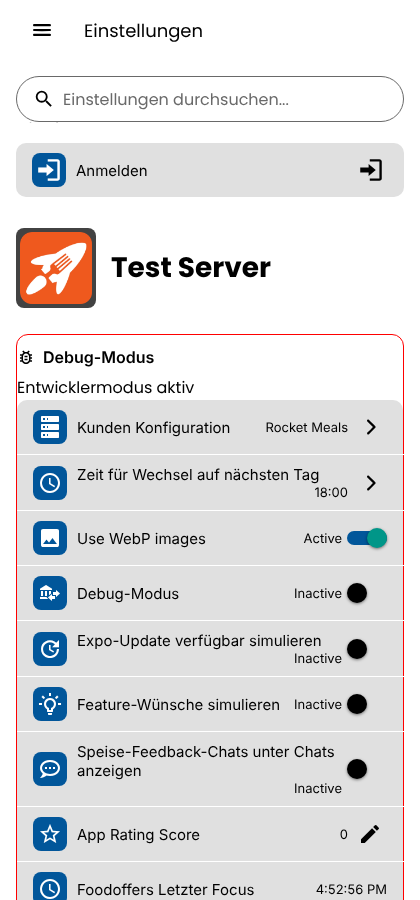
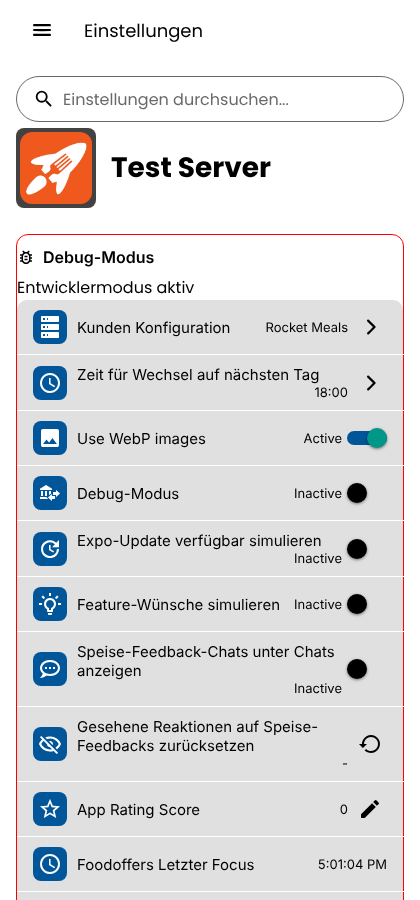
App: back from a food feedback chat goes to the own ratings, dev reset of seen reactions
- Food feedback chats are not listed under "Chats", so "back" in their chat
  now goes to the own ratings (/notification). With the dev toggle that lists
  them under "Chats", back stays at "Chats". CustomStackHeader takes an
  optional goBackTarget for this.
- Dev menu: button to reset profiles.food_feedback_reactions_seen_until, so
  the hint above the food offers shows the reactions again. Shows the current
  value.

Claude-Session: https://claude.ai/code/session_01WK1NRwzhUN6aLsBd9xx5EQ

Changed region(s): [[0.031, 0.1244, 0.9595, 1.0]]

diff --git a/apps/frontend/app/app/(app)/settings/index.tsx b/apps/frontend/app/app/(app)/settings/index.tsx
@@ -517,6 +517,22 @@ const Settings = () => {
                 });
         };
 
+        /** Debug: forgets which reactions to food feedbacks were seen, so the hint above the food offers shows them again. */
+        const foodFeedbackReactionsSeenUntil = (profile as DatabaseTypes.Profiles | undefined)?.food_feedback_reactions_seen_until ?? null;
+        const handleResetFoodFeedbackReactionsSeen = useCallback(async () => {
+                if (!profile?.id) {
+                        return;
+                }
+                dispatch({ type: UPDATE_PROFILE, payload: { ...profile, food_feedback_reactions_seen_until: null } });
+                try {
+                        await profileHelper.updateFoodFeedbackReactionsSeenUntil(profile.id, null);
+                        toast(translate(TranslationKeys.reset), 'success');
+                } catch (error) {
+                        console.error('Resetting the seen reactions to food feedbacks failed:', error);
+                        toast(translate(TranslationKeys.error), 'error');
+                }
+        }, [dispatch, profile, profileHelper, toast, translate]);
+
         const handleResetCollectibles = useCallback(() => {
                 dispatch({ type: RESET_ALL_COLLECTIBLE_EVENT_DICTS });
                 toast(translate(TranslationKeys.reset), 'success');
@@ -969,6 +985,15 @@ const Settings = () => {
 							onToggle={toggleShowFoodFeedbackChatsInChats}
 							groupPosition="middle"
 						/>
+						<SettingsList
+							iconBgColor={primaryColor}
+							leftIcon={<MaterialCommunityIcons name="eye-off-outline" size={24} color={theme.screen.icon} />}
+							label={translate(TranslationKeys.reset_food_feedback_reactions_seen)}
+							value={foodFeedbackReactionsSeenUntil ? new Date(foodFeedbackReactionsSeenUntil).toLocaleString() : '-'}
+							rightIcon={<MaterialCommunityIcons name="restore" size={24} color={theme.screen.icon} />}
+							handleFunction={() => void handleResetFoodFeedbackReactionsSeen()}
+							groupPosition="middle"
+						/>
 						<SettingsListEditable
 							key={String(appRatingScore)}
 							iconBgColor={primaryColor}
@@ -1097,7 +1122,7 @@ const Settings = () => {
 		campus_area_color, campusSortingLabel, openCampusSortingModal, handleCheckForUpdates,
 		openCollectibleSettingsModal, termsAndPrivacyConsentAcceptedDate, isManagement, dispatch,
 		serverInfo, selectedCustomerDisplayName, foodOffersNextDayThreshold, useWebpForAssets,
-		debugMode, simulateExpoUpdateAvailable, simulateFeatureWishesEnabled, showFoodFeedbackChatsInChats, openServerSheet, openFoodOffersTimeSheet,
+		debugMode, simulateExpoUpdateAvailable, simulateFeatureWishesEnabled, showFoodFeedbackChatsInChats, foodFeedbackReactionsSeenUntil, handleResetFoodFeedbackReactionsSeen, openServerSheet, openFoodOffersTimeSheet,
 		toggleWebpForAssets, toggleDebugMode, toggleSimulateExpoUpdate, toggleSimulateFeatureWishes, toggleShowFoodFeedbackChatsInChats, osmVectorMapStyleKey, osmConsent,
 		acceptedFriendsCount, showFriendsInSettings, canteenVisitsVisibilityLabel, openCanteenVisitsVisibilityModal, openFriendsModal, openAccountRequiredModal,
 		appRatingScore, openAppRatingScoreSheet, showDebugRatingModal, appRatingData,

diff --git a/apps/frontend/app/app/(app)/chats/_layout.tsx b/apps/frontend/app/app/(app)/chats/_layout.tsx
@@ -1,12 +1,14 @@
 import React from 'react';
 import { TouchableOpacity } from 'react-native';
-import { Stack, useRouter } from 'expo-router';
+import { Stack, useLocalSearchParams, useRouter } from 'expo-router';
 import { MaterialCommunityIcons } from '@expo/vector-icons';
 import CustomStackHeader from '@/components/CustomStackHeader/CustomStackHeader';
 import TranslatedMenuHeader from '@/components/CustomMenuHeader/TranslatedMenuHeader';
 import { useTheme } from '@/hooks/useTheme';
 import { useLanguage } from '@/hooks/useLanguage';
 import { TranslationKeys } from '@/locales/keys';
+import { useAppSelector } from '@/redux/hooks';
+import { AppScreens, ChatHelper } from 'repo-depkit-common';
 
 // `Stack.Screen`'s `options.header` calls this as a plain function (never as
 // a JSX tag), so a factory returning a stable function avoids defining a new
@@ -24,9 +26,15 @@ function ChatDetailsHeaderContent() {
 	const { theme } = useTheme();
 	const { translate } = useLanguage();
 	const router = useRouter();
+	const { chat_id } = useLocalSearchParams<{ chat_id?: string }>();
+	const chat = useAppSelector(state => (state.chats?.chats ?? []).find(entry => String(entry?.id) === String(chat_id)));
+	const showFoodFeedbackChatsInChats = useAppSelector(state => state.settings.showFoodFeedbackChatsInChats);
+	// The chat of a food feedback is not listed under "Chats" (see useChatUnreadStatus), so back goes to the own ratings.
+	const goBackTarget = ChatHelper.isFoodFeedbackChat(chat) && !showFoodFeedbackChatsInChats ? `/${AppScreens.NOTIFICATION}` : undefined;
 	return (
 		<CustomStackHeader
 			label={translate(TranslationKeys.chat)}
+			goBackTarget={goBackTarget}
 			rightElement={
 				<TouchableOpacity
 					onPress={() =>

diff --git a/apps/frontend/app/components/CustomStackHeader/CustomStackHeader.tsx b/apps/frontend/app/components/CustomStackHeader/CustomStackHeader.tsx
@@ -70,7 +70,7 @@ function resolveGoBackTarget(pathname: string, loggedIn: boolean, canGoBack: boo
 	return loggedIn ? `/${AppScreens.FOOD_OFFERS}` : `/${AppScreens.LOGIN}`;
 }
 
-const CustomStackHeader: React.FC<CustomStackHeaderProps> = ({ label, rightElement }) => {
+const CustomStackHeader: React.FC<CustomStackHeaderProps> = ({ label, rightElement, goBackTarget }) => {
 	const { theme } = useTheme();
 	const { translate } = useLanguage();
 	const router = useRouter();
@@ -79,7 +79,7 @@ const CustomStackHeader: React.FC<CustomStackHeaderProps> = ({ label, rightEleme
 	const [screenWidth, setScreenWidth] = useState(Dimensions.get('window').width);
 
 	const handleGoback = () => {
-		const target = resolveGoBackTarget(pathname, loggedIn, router.canGoBack());
+		const target = goBackTarget ?? resolveGoBackTarget(pathname, loggedIn, router.canGoBack());
 		if (target) {
 			router.navigate(target);
 		} else {

diff --git a/apps/frontend/app/config.ts b/apps/frontend/app/config.ts
@@ -285,7 +285,8 @@ export function getVersionPatch() {
         // 165: chats without a message are not unread, food feedback chats only at the own ratings
         //      (dev setting to list them in chats), seen reactions no longer reset by profile writes,
         //      contrast color on the chat button
-        return 165;
+        // 166: back from a food feedback chat goes to the own ratings, dev button resets seen reactions
+        return 166;
 }
 
 export function getVersionInternalForAppsettingsScreen() {

diff --git a/apps/frontend/app/locales/keys.ts b/apps/frontend/app/locales/keys.ts
@@ -47,6 +47,7 @@ export const TranslationKeys = {
 	simulate_expo_update_available: 'simulate_expo_update_available',
 	simulate_feature_wishes_enabled: 'simulate_feature_wishes_enabled',
 	show_food_feedback_chats_in_chats: 'show_food_feedback_chats_in_chats',
+	reset_food_feedback_reactions_seen: 'reset_food_feedback_reactions_seen',
 	cached_foodoffers_days: 'cached_foodoffers_days',
 	cached_foodoffers_days_empty: 'cached_foodoffers_days_empty',
 	foodoffers_next_day_time: 'foodoffers_next_day_time',

diff --git a/apps/frontend/app/components/CustomStackHeader/types.ts b/apps/frontend/app/components/CustomStackHeader/types.ts
@@ -3,4 +3,6 @@ import { ReactNode } from 'react';
 export interface CustomStackHeaderProps {
         label: string;
         rightElement?: ReactNode;
+        /** Where "back" goes, instead of the target derived from the pathname, e.g. the chat of a food feedback back to the own ratings. */
+        goBackTarget?: string;
 }
